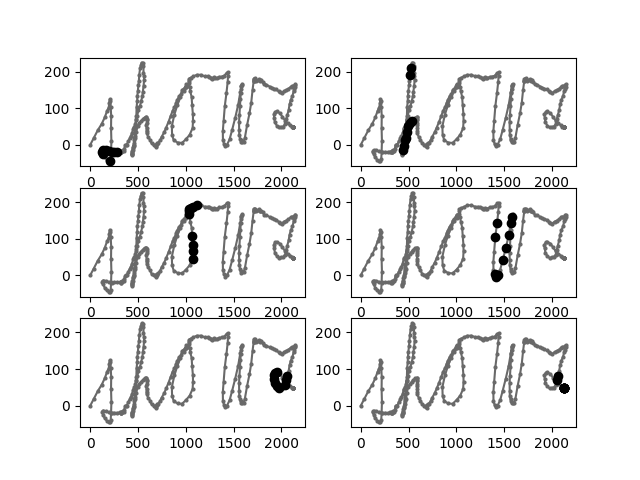
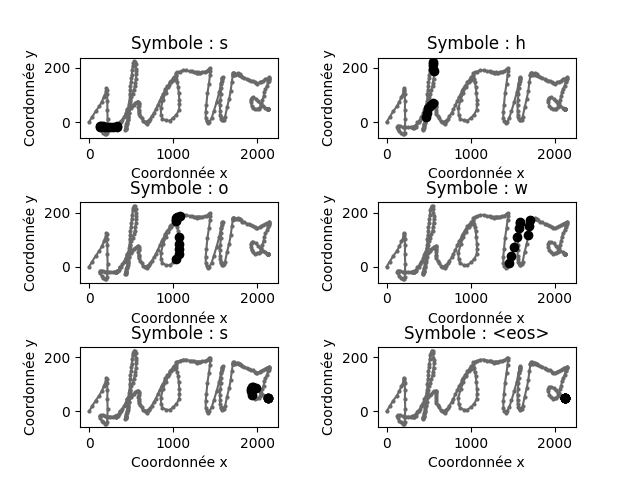
A enlever pour remise

diff --git a/main.py b/main.py
@@ -1,7 +1,7 @@
 # GRO722 problématique
 # Auteur: Jean-Samuel Lauzon et  Jonathan Vincent
 # Hivers 2021
-
+from matplotlib import pyplot as plt
 from torch.utils.data import Dataset, DataLoader
 from models import *
 from dataset import *
@@ -14,6 +14,7 @@ def visualizeAttn(data, attn):
 
     attn = torch.transpose(attn, 1, 2)
     attn_np = attn.detach().numpy()
+    mot = ['s', 'h', 'o', 'w', 's', '<eos>']
     for idx, letter_attn in enumerate(attn_np[0]):
         valeurs_x_attn = valeurs_x[np.argpartition(letter_attn, -10)[-10:]]
         valeurs_y_attn = valeurs_y[np.argpartition(letter_attn, -10)[-10:]]
@@ -23,7 +24,8 @@ def visualizeAttn(data, attn):
         plt.plot(valeurs_x_attn, valeurs_y_attn, 'o', color='black')
         plt.xlabel('Coordonnée x')
         plt.ylabel('Coordonnée y')
-
+        plt.title('Symbole : ' + mot[idx])
+    plt.subplots_adjust(wspace=0.5, hspace=0.8)
     plt.show()
 
 def distanceToCoord(distance):
